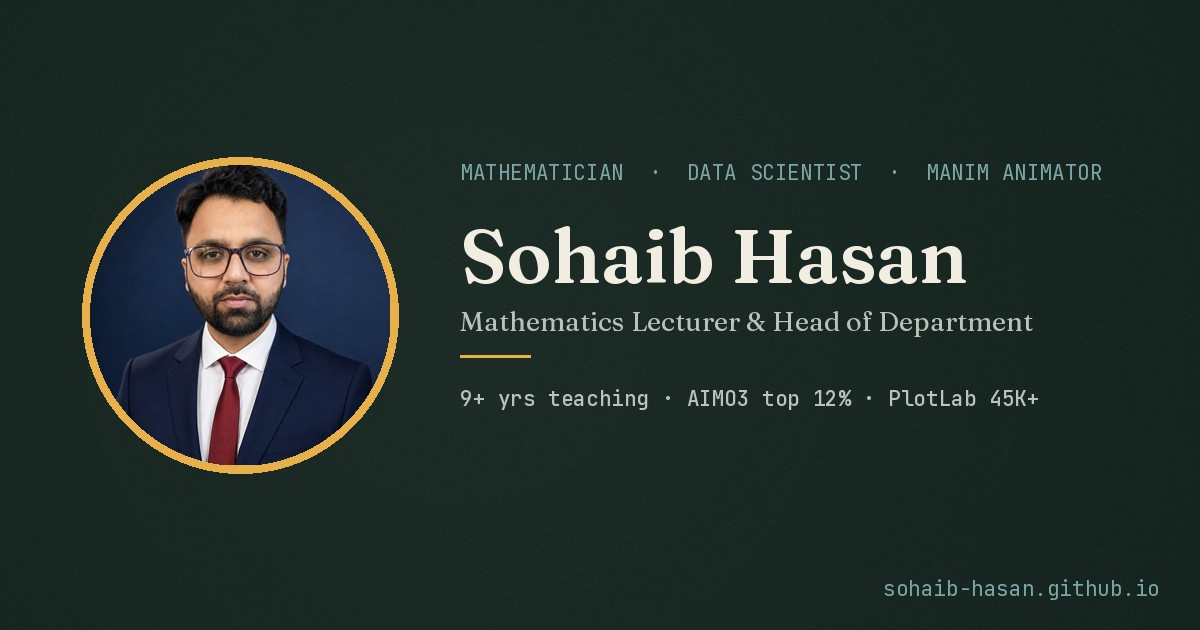
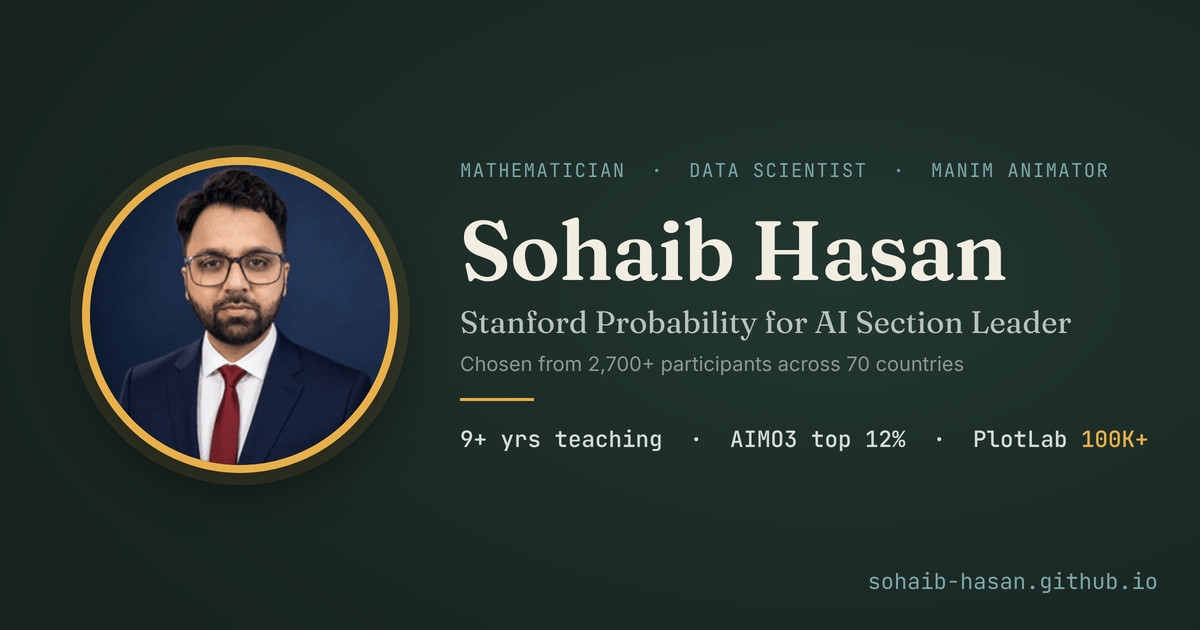
Add files via upload

diff --git a/blog.html b/blog.html
@@ -21,14 +21,14 @@
 <meta property="og:title" content="Blog · Sohaib Hasan">
 <meta property="og:description" content="Writing on mathematics, AI reasoning, and teaching by Sohaib Hasan.">
 <meta property="og:url" content="https://sohaib-hasan.github.io/blog/">
-<meta property="og:image" content="https://sohaib-hasan.github.io/images/og-image.jpg">
+<meta property="og:image" content="https://sohaib-hasan.github.io/images/og-image.jpg?v=2">
 <meta property="og:image:width" content="1200">
 <meta property="og:image:height" content="630">
 <meta property="og:site_name" content="Sohaib Hasan">
 <meta name="twitter:card" content="summary_large_image">
 <meta name="twitter:title" content="Blog · Sohaib Hasan">
 <meta name="twitter:description" content="Writing on mathematics, AI reasoning, and teaching by Sohaib Hasan.">
-<meta name="twitter:image" content="https://sohaib-hasan.github.io/images/og-image.jpg">
+<meta name="twitter:image" content="https://sohaib-hasan.github.io/images/og-image.jpg?v=2">
 
 </head>
 <body>
@@ -66,14 +66,35 @@
     THUMBNAILS: add one line to a post's front matter to give it a square (1:1) thumbnail:
       thumbnail: /images/blog/my-post.png
     Any image works, it is cropped to a centred square automatically. A post without a thumbnail
-    shows the site icon instead, so every row stays aligned.
+    (or whose image file is not uploaded yet) shows the site icon instead, so every row stays aligned.
+    If the extension in the front matter does not match the uploaded file, png / jpg / jpeg / webp are tried automatically.
   -->
+  <script>
+    // If a thumbnail file is missing or has another extension (png / jpg / jpeg / webp),
+    // try the other common extensions, then fall back to the site icon.
+    function thumbFix(img){
+      if (img.getAttribute('data-fb')) { img.onerror = null; return; }
+      var src = img.getAttribute('src');
+      var base = img.getAttribute('data-base');
+      if (!base) {
+        base = src.replace(/\.[a-z0-9]+$/i, '');
+        img.setAttribute('data-base', base);
+        img.setAttribute('data-orig', src);
+      }
+      var orig = img.getAttribute('data-orig');
+      var list = ['png','jpg','jpeg','webp','PNG','JPG','JPEG'].map(function(e){ return base + '.' + e; })
+                   .filter(function(u){ return u !== orig; });
+      var n = parseInt(img.getAttribute('data-try') || '0', 10);
+      if (n < list.length) { img.setAttribute('data-try', n + 1); img.src = list[n]; }
+      else { img.setAttribute('data-fb', '1'); img.src = '/apple-touch-icon.png'; }
+    }
+  </script>
   <div class="post-list">
     {% for post in site.posts %}
     {% assign thumb = post.thumbnail | default: "/apple-touch-icon.png" %}
     {% unless thumb contains "://" %}{% assign thumb = thumb | prepend: "/" | replace: "//", "/" %}{% endunless %}
     <a class="post-row" href="{{ post.url }}">
-      <span class="post-thumb"><img src="{{ thumb }}" alt="" width="336" height="336" loading="lazy" decoding="async"></span>
+      <span class="post-thumb"><img src="{{ thumb }}" alt="" width="336" height="336" loading="lazy" decoding="async" onerror="thumbFix(this)"></span>
       <span class="post-body">
         <span class="card-tag">{{ post.date | date: "%B %-d, %Y" }}</span>
         <h3>{{ post.title }}</h3>

diff --git a/work-with-me.html b/work-with-me.html
@@ -28,14 +28,14 @@
 <meta property="og:title" content="Work With Me · Sohaib Hasan">
 <meta property="og:description" content="Tutoring in mathematics, statistics, probability, cryptography, DSA, and machine learning. Custom Manim-built animations from the creator of PlotLab (100K+ followers) for research, teaching, or any purpose. Get in touch to discuss your project.">
 <meta property="og:url" content="https://sohaib-hasan.github.io/work-with-me.html">
-<meta property="og:image" content="https://sohaib-hasan.github.io/images/og-image.jpg">
+<meta property="og:image" content="https://sohaib-hasan.github.io/images/og-image.jpg?v=2">
 <meta property="og:image:width" content="1200">
 <meta property="og:image:height" content="630">
 <meta property="og:site_name" content="Sohaib Hasan">
 <meta name="twitter:card" content="summary_large_image">
 <meta name="twitter:title" content="Work With Me · Sohaib Hasan">
 <meta name="twitter:description" content="Tutoring in mathematics, statistics, probability, cryptography, DSA, and machine learning. Custom Manim-built animations from the creator of PlotLab (100K+ followers) for research, teaching, or any purpose. Get in touch to discuss your project.">
-<meta name="twitter:image" content="https://sohaib-hasan.github.io/images/og-image.jpg">
+<meta name="twitter:image" content="https://sohaib-hasan.github.io/images/og-image.jpg?v=2">
 
 </head>
 <body>

diff --git a/index.html b/index.html
@@ -19,14 +19,14 @@
 <meta property="og:title" content="Sohaib Hasan · Mathematics, AI Reasoning &amp; PlotLab">
 <meta property="og:description" content="Sohaib Hasan, mathematics educator and section leader for Stanford's Probability for AI. Research in cryptography and AI mathematical reasoning. Creator of PlotLab, with 100K+ followers.">
 <meta property="og:url" content="https://sohaib-hasan.github.io/">
-<meta property="og:image" content="https://sohaib-hasan.github.io/images/og-image.jpg">
+<meta property="og:image" content="https://sohaib-hasan.github.io/images/og-image.jpg?v=2">
 <meta property="og:image:width" content="1200">
 <meta property="og:image:height" content="630">
 <meta property="og:site_name" content="Sohaib Hasan">
 <meta name="twitter:card" content="summary_large_image">
 <meta name="twitter:title" content="Sohaib Hasan · Mathematics, AI Reasoning &amp; PlotLab">
 <meta name="twitter:description" content="Sohaib Hasan, mathematics educator and section leader for Stanford's Probability for AI. Research in cryptography and AI mathematical reasoning. Creator of PlotLab, with 100K+ followers.">
-<meta name="twitter:image" content="https://sohaib-hasan.github.io/images/og-image.jpg">
+<meta name="twitter:image" content="https://sohaib-hasan.github.io/images/og-image.jpg?v=2">
 
 <script type="application/ld+json">
 {

diff --git a/plotlab.html b/plotlab.html
@@ -28,14 +28,14 @@
 <meta property="og:title" content="Animations · Sohaib Hasan">
 <meta property="og:description" content="Manim-based mathematical animation by Sohaib Hasan: PlotLab on Facebook (85K+), Instagram (15K+) and YouTube, plus an animation portfolio for researchers, thesis defenses and Stanford's Probability for AI.">
 <meta property="og:url" content="https://sohaib-hasan.github.io/plotlab.html">
-<meta property="og:image" content="https://sohaib-hasan.github.io/images/og-image.jpg">
+<meta property="og:image" content="https://sohaib-hasan.github.io/images/og-image.jpg?v=2">
 <meta property="og:image:width" content="1200">
 <meta property="og:image:height" content="630">
 <meta property="og:site_name" content="Sohaib Hasan">
 <meta name="twitter:card" content="summary_large_image">
 <meta name="twitter:title" content="Animations · Sohaib Hasan">
 <meta name="twitter:description" content="Manim-based mathematical animation by Sohaib Hasan: PlotLab on Facebook (85K+), Instagram (15K+) and YouTube, plus an animation portfolio for researchers, thesis defenses and Stanford's Probability for AI.">
-<meta name="twitter:image" content="https://sohaib-hasan.github.io/images/og-image.jpg">
+<meta name="twitter:image" content="https://sohaib-hasan.github.io/images/og-image.jpg?v=2">
 
 </head>
 <body>

diff --git a/notes-igcse.html b/notes-igcse.html
@@ -28,14 +28,14 @@
 <meta property="og:title" content="IGCSE Math Notes (Cambridge 0580) · Sohaib Hasan">
 <meta property="og:description" content="Fully animated IGCSE Mathematics note packs for Cambridge 0580 Core and Extended: Algebra and Graphs, Statistics, Coordinate Geometry and Equations, by Sohaib Hasan.">
 <meta property="og:url" content="https://sohaib-hasan.github.io/notes-igcse.html">
-<meta property="og:image" content="https://sohaib-hasan.github.io/images/og-image.jpg">
+<meta property="og:image" content="https://sohaib-hasan.github.io/images/og-image.jpg?v=2">
 <meta property="og:image:width" content="1200">
 <meta property="og:image:height" content="630">
 <meta property="og:site_name" content="Sohaib Hasan">
 <meta name="twitter:card" content="summary_large_image">
 <meta name="twitter:title" content="IGCSE Math Notes (Cambridge 0580) · Sohaib Hasan">
 <meta name="twitter:description" content="Fully animated IGCSE Mathematics note packs for Cambridge 0580 Core and Extended: Algebra and Graphs, Statistics, Coordinate Geometry and Equations, by Sohaib Hasan.">
-<meta name="twitter:image" content="https://sohaib-hasan.github.io/images/og-image.jpg">
+<meta name="twitter:image" content="https://sohaib-hasan.github.io/images/og-image.jpg?v=2">
 
 <script type="application/ld+json">
 {

diff --git a/notes-mathematics.html b/notes-mathematics.html
@@ -28,14 +28,14 @@
 <meta property="og:title" content="Mathematics Notes · Sohaib Hasan">
 <meta property="og:description" content="Free LaTeX-typeset mathematics notes by Sohaib Hasan: Calculus, Linear Algebra, Discrete Mathematics, Number Theory, History of Mathematics, and Machine Learning.">
 <meta property="og:url" content="https://sohaib-hasan.github.io/notes-mathematics.html">
-<meta property="og:image" content="https://sohaib-hasan.github.io/images/og-image.jpg">
+<meta property="og:image" content="https://sohaib-hasan.github.io/images/og-image.jpg?v=2">
 <meta property="og:image:width" content="1200">
 <meta property="og:image:height" content="630">
 <meta property="og:site_name" content="Sohaib Hasan">
 <meta name="twitter:card" content="summary_large_image">
 <meta name="twitter:title" content="Mathematics Notes · Sohaib Hasan">
 <meta name="twitter:description" content="Free LaTeX-typeset mathematics notes by Sohaib Hasan: Calculus, Linear Algebra, Discrete Mathematics, Number Theory, History of Mathematics, and Machine Learning.">
-<meta name="twitter:image" content="https://sohaib-hasan.github.io/images/og-image.jpg">
+<meta name="twitter:image" content="https://sohaib-hasan.github.io/images/og-image.jpg?v=2">
 
 <script type="application/ld+json">
 {

diff --git a/teaching.html b/teaching.html
@@ -28,14 +28,14 @@
 <meta property="og:title" content="Teaching · Sohaib Hasan">
 <meta property="og:description" content="Sohaib Hasan's teaching: nine years of undergraduate mathematics, section leader for Stanford's Probability for AI, and an approach built on LaTeX notes and Manim animations.">
 <meta property="og:url" content="https://sohaib-hasan.github.io/teaching.html">
-<meta property="og:image" content="https://sohaib-hasan.github.io/images/og-image.jpg">
+<meta property="og:image" content="https://sohaib-hasan.github.io/images/og-image.jpg?v=2">
 <meta property="og:image:width" content="1200">
 <meta property="og:image:height" content="630">
 <meta property="og:site_name" content="Sohaib Hasan">
 <meta name="twitter:card" content="summary_large_image">
 <meta name="twitter:title" content="Teaching · Sohaib Hasan">
 <meta name="twitter:description" content="Sohaib Hasan's teaching: nine years of undergraduate mathematics, section leader for Stanford's Probability for AI, and an approach built on LaTeX notes and Manim animations.">
-<meta name="twitter:image" content="https://sohaib-hasan.github.io/images/og-image.jpg">
+<meta name="twitter:image" content="https://sohaib-hasan.github.io/images/og-image.jpg?v=2">
 
 </head>
 <body>

diff --git a/notes.html b/notes.html
@@ -28,14 +28,14 @@
 <meta property="og:title" content="Notes Library · Sohaib Hasan">
 <meta property="og:description" content="Notes library organized in folders: Mathematics, Statistics, Stanford Probability for AI weekly notes with animation videos, and IGCSE Math, by Sohaib Hasan.">
 <meta property="og:url" content="https://sohaib-hasan.github.io/notes.html">
-<meta property="og:image" content="https://sohaib-hasan.github.io/images/og-image.jpg">
+<meta property="og:image" content="https://sohaib-hasan.github.io/images/og-image.jpg?v=2">
 <meta property="og:image:width" content="1200">
 <meta property="og:image:height" content="630">
 <meta property="og:site_name" content="Sohaib Hasan">
 <meta name="twitter:card" content="summary_large_image">
 <meta name="twitter:title" content="Notes Library · Sohaib Hasan">
 <meta name="twitter:description" content="Notes library organized in folders: Mathematics, Statistics, Stanford Probability for AI weekly notes with animation videos, and IGCSE Math, by Sohaib Hasan.">
-<meta name="twitter:image" content="https://sohaib-hasan.github.io/images/og-image.jpg">
+<meta name="twitter:image" content="https://sohaib-hasan.github.io/images/og-image.jpg?v=2">
 
 <script type="application/ld+json">
 {

diff --git a/notes-stanford-pai.html b/notes-stanford-pai.html
@@ -28,14 +28,14 @@
 <meta property="og:title" content="Stanford Probability for AI: Weekly Notes &amp; Videos · Sohaib Hasan">
 <meta property="og:description" content="Weekly notes, worked solutions and Manim animation videos from Sohaib Hasan's section at Stanford's Probability for AI.">
 <meta property="og:url" content="https://sohaib-hasan.github.io/notes-stanford-pai.html">
-<meta property="og:image" content="https://sohaib-hasan.github.io/images/og-image.jpg">
+<meta property="og:image" content="https://sohaib-hasan.github.io/images/og-image.jpg?v=2">
 <meta property="og:image:width" content="1200">
 <meta property="og:image:height" content="630">
 <meta property="og:site_name" content="Sohaib Hasan">
 <meta name="twitter:card" content="summary_large_image">
 <meta name="twitter:title" content="Stanford Probability for AI: Weekly Notes &amp; Videos · Sohaib Hasan">
 <meta name="twitter:description" content="Weekly notes, worked solutions and Manim animation videos from Sohaib Hasan's section at Stanford's Probability for AI.">
-<meta name="twitter:image" content="https://sohaib-hasan.github.io/images/og-image.jpg">
+<meta name="twitter:image" content="https://sohaib-hasan.github.io/images/og-image.jpg?v=2">
 </head>
 <body>
 

diff --git a/notes-stanford-pai-pdfs.html b/notes-stanford-pai-pdfs.html
@@ -28,14 +28,14 @@
 <meta property="og:title" content="Stanford Probability for AI: PDFs · Sohaib Hasan">
 <meta property="og:description" content="Worked solutions and notes PDFs from Sohaib Hasan's section at Stanford's Probability for AI, week by week. View online or download.">
 <meta property="og:url" content="https://sohaib-hasan.github.io/notes-stanford-pai-pdfs.html">
-<meta property="og:image" content="https://sohaib-hasan.github.io/images/og-image.jpg">
+<meta property="og:image" content="https://sohaib-hasan.github.io/images/og-image.jpg?v=2">
 <meta property="og:image:width" content="1200">
 <meta property="og:image:height" content="630">
 <meta property="og:site_name" content="Sohaib Hasan">
 <meta name="twitter:card" content="summary_large_image">
 <meta name="twitter:title" content="Stanford Probability for AI: PDFs · Sohaib Hasan">
 <meta name="twitter:description" content="Worked solutions and notes PDFs from Sohaib Hasan's section at Stanford's Probability for AI, week by week. View online or download.">
-<meta name="twitter:image" content="https://sohaib-hasan.github.io/images/og-image.jpg">
+<meta name="twitter:image" content="https://sohaib-hasan.github.io/images/og-image.jpg?v=2">
 </head>
 <body>
 

diff --git a/research.html b/research.html
@@ -28,14 +28,14 @@
 <meta property="og:title" content="Research · Sohaib Hasan">
 <meta property="og:description" content="Research and achievements: AIMO3, Harvard CS50x Puzzle Day, cryptography and fluid dynamics theses, and applied ML projects.">
 <meta property="og:url" content="https://sohaib-hasan.github.io/research.html">
-<meta property="og:image" content="https://sohaib-hasan.github.io/images/og-image.jpg">
+<meta property="og:image" content="https://sohaib-hasan.github.io/images/og-image.jpg?v=2">
 <meta property="og:image:width" content="1200">
 <meta property="og:image:height" content="630">
 <meta property="og:site_name" content="Sohaib Hasan">
 <meta name="twitter:card" content="summary_large_image">
 <meta name="twitter:title" content="Research · Sohaib Hasan">
 <meta name="twitter:description" content="Research and achievements: AIMO3, Harvard CS50x Puzzle Day, cryptography and fluid dynamics theses, and applied ML projects.">
-<meta name="twitter:image" content="https://sohaib-hasan.github.io/images/og-image.jpg">
+<meta name="twitter:image" content="https://sohaib-hasan.github.io/images/og-image.jpg?v=2">
 
 </head>
 <body>

diff --git a/about.html b/about.html
@@ -19,14 +19,14 @@
 <meta property="og:title" content="About · Sohaib Hasan">
 <meta property="og:description" content="About Sohaib Hasan: Stanford Probability for AI section leader, education, teaching experience, PlotLab, and technical skills.">
 <meta property="og:url" content="https://sohaib-hasan.github.io/about.html">
-<meta property="og:image" content="https://sohaib-hasan.github.io/images/og-image.jpg">
+<meta property="og:image" content="https://sohaib-hasan.github.io/images/og-image.jpg?v=2">
 <meta property="og:image:width" content="1200">
 <meta property="og:image:height" content="630">
 <meta property="og:site_name" content="Sohaib Hasan">
 <meta name="twitter:card" content="summary_large_image">
 <meta name="twitter:title" content="About · Sohaib Hasan">
 <meta name="twitter:description" content="About Sohaib Hasan: Stanford Probability for AI section leader, education, teaching experience, PlotLab, and technical skills.">
-<meta name="twitter:image" content="https://sohaib-hasan.github.io/images/og-image.jpg">
+<meta name="twitter:image" content="https://sohaib-hasan.github.io/images/og-image.jpg?v=2">
 
 </head>
 <body>
